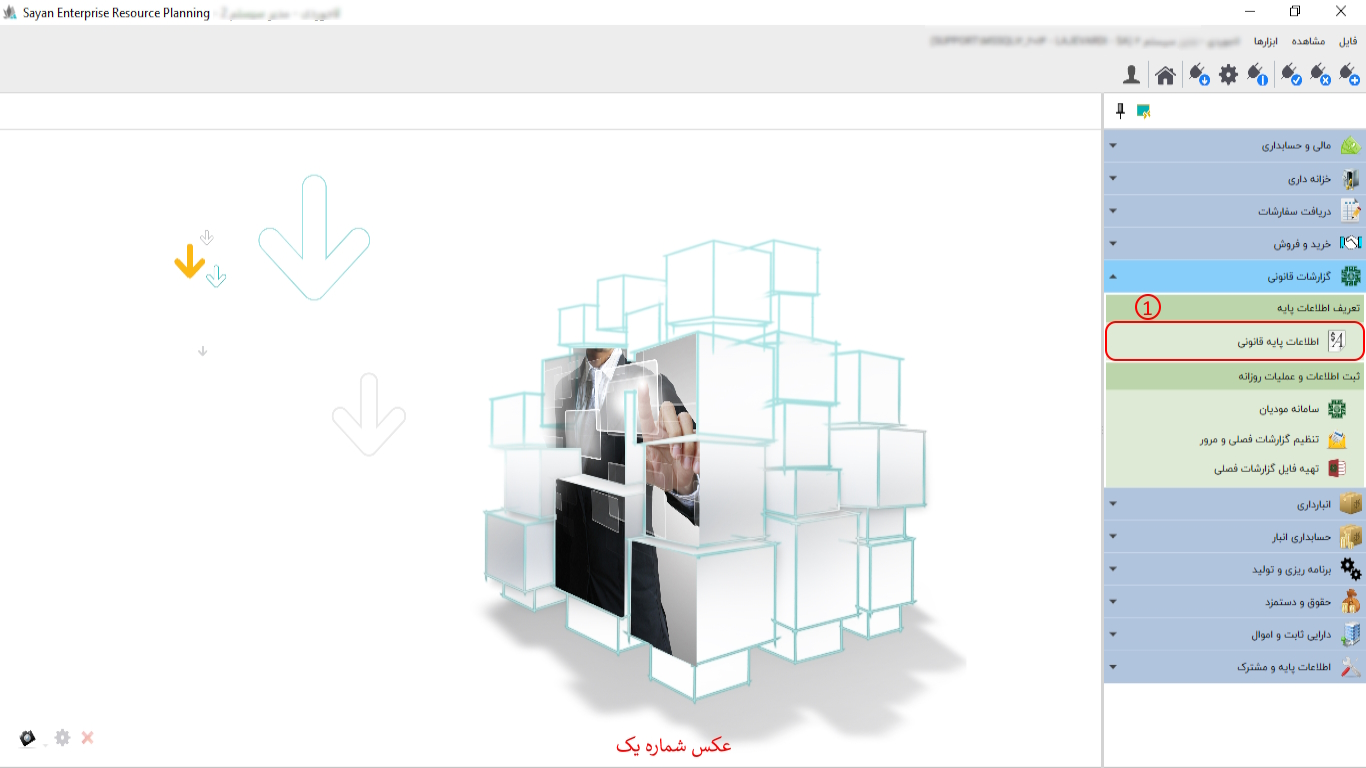
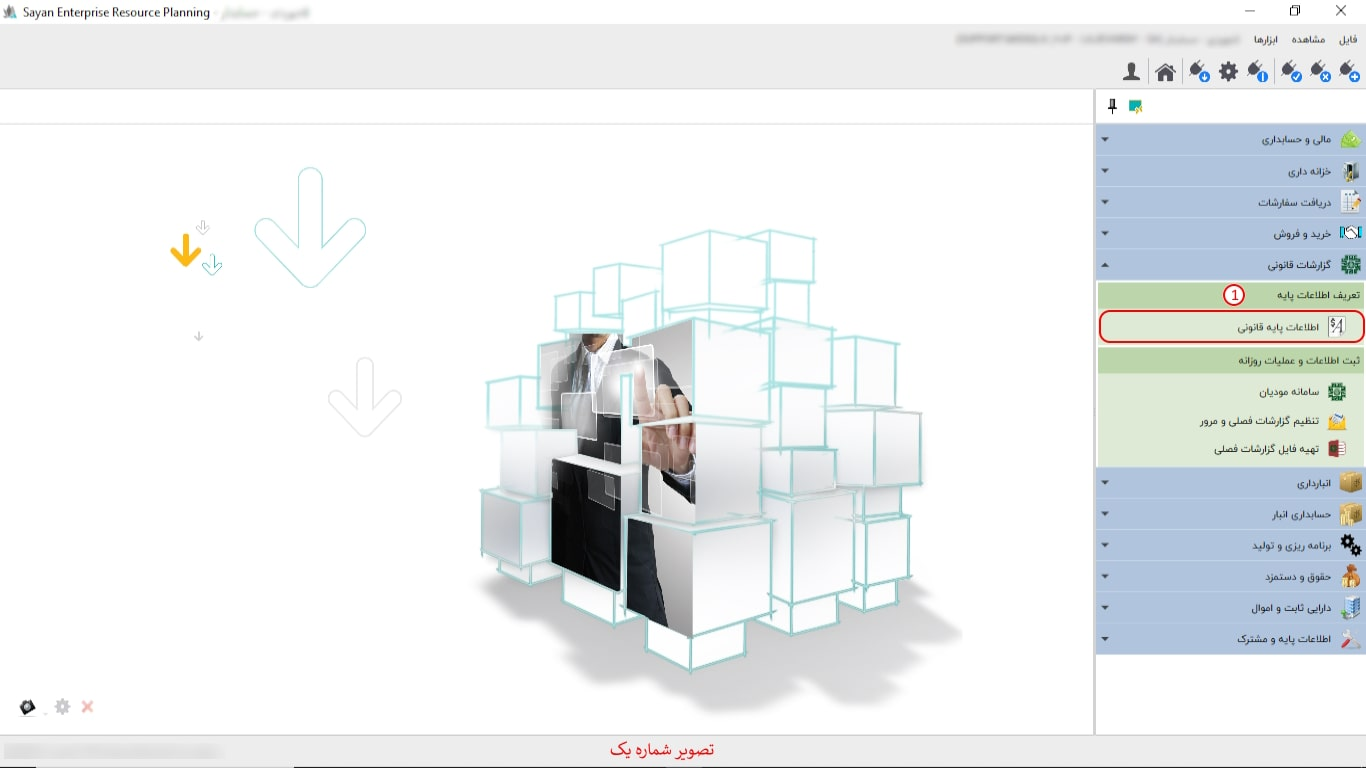
تغییر در عکس

diff --git a/Help/fa-IR/_06_گزارشات قانونی/_01_اطلاعات پایه قانونی/Index.html b/Help/fa-IR/_06_گزارشات قانونی/_01_اطلاعات پایه قانونی/Index.html
@@ -16,7 +16,7 @@
 	</p>
 	<img class="FitPic" src="l1.jpg"/>
 	<p>
-	برای ادامه مطلب به عکس شماره دو مراجعه نمایید.
+	برای ادامه مطلب به تصویر شماره دو مراجعه نمایید.
 	</p>
 	<img class="FitPic" src="l2.jpg"/>
 	<p>
